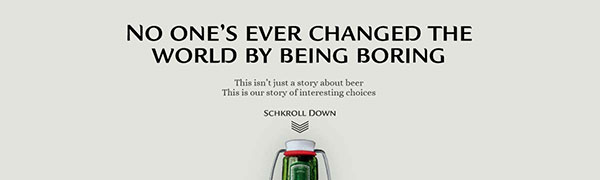
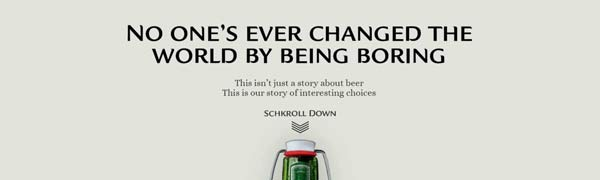
updated all small-screen header images with new versions. added license and blog links to footer. amended homepage font sizes. AGAIN.

diff --git a/css/style.css b/css/style.css
@@ -139,7 +139,7 @@ header p {
   margin-top: 12px; }
 
 .project .info p:nth-child(2) {
-  font-size: 24px;
+  font-size: 22px;
   line-height: 1em;
   font-weight: 400;
   margin-top: 5px; }
@@ -178,11 +178,6 @@ footer a:active {
 
 footer h2 {
   font-weight: 300; }
-
-#footer-inner div:nth-of-type(3) {
-  clear: left;
-  display: block;
-  width: auto; }
 
 /* Project pages */
 .description {
@@ -312,12 +307,18 @@ body > .project {
     height: auto; }
 
   .description {
-    padding: 2.5%; } }
+    padding: 2.5%; }
+
+  #footer-inner div {
+    margin-bottom: 48px; }
+
+  #footer-inner div:nth-child(3),
+  #footer-inner div:nth-child(4) {
+    margin-bottom: 9px; } }
 @media screen and (min-width: 750px) {
   #footer-inner div {
     float: left;
-    margin-left: 0.25em;
-    width: 295px; }
+    width: 33%; }
 
   /* calculate required number of copy lines * their font sizes + any leading + any padding */
   .project .info {
@@ -327,7 +328,10 @@ body > .project {
     padding: 2.5%; }
 
   h1 {
-    margin-left: 9px; } }
+    margin-left: 9px; }
+
+  #footer-inner div:nth-of-type(3) {
+    text-align: right; } }
 @media screen and (min-width: 750px) and (max-width: 1007px) {
   #container,
   #header-inner,
@@ -426,9 +430,6 @@ body > .project {
   footer p {
     margin-top: 8px;
     font-weight: 400; }
-
-  #footer-inner div:nth-of-type(2) {
-    margin-left: 54px; }
 
   .description {
     width: 504px;

diff --git a/assets/style.scss b/assets/style.scss
@@ -188,7 +188,7 @@ header p {
 }
 
 .project .info p:nth-child(2) {
-  font-size: 24px;
+  font-size: 22px;
   line-height: 1em;
   font-weight: 400;
   margin-top: 5px;
@@ -234,12 +234,6 @@ footer a:active {
 
 footer h2 {
   font-weight: 300;
-}
-
-#footer-inner div:nth-of-type(3) {
-  clear: left;
-  display: block;
-  width: auto;
 }
 
 /* Project pages */
@@ -407,13 +401,21 @@ body > .project {
   .description {
     padding: 2.5%
   }
+
+  #footer-inner div {
+    margin-bottom: 48px;
+  }
+
+  #footer-inner div:nth-child(3),
+  #footer-inner div:nth-child(4) {
+    margin-bottom: 9px;
+  }
 }
 
 @media screen and (min-width: 750px) {
   #footer-inner div {
     float: left;
-    margin-left: 0.25em;
-    width: 295px;
+    width: 33%;
   }
 
   /* calculate required number of copy lines * their font sizes + any leading + any padding */
@@ -427,6 +429,10 @@ body > .project {
 
   h1 {
     margin-left: $standardSpacing;
+  }
+
+  #footer-inner div:nth-of-type(3) {
+    text-align: right;
   }
 }
 
@@ -556,10 +562,6 @@ body > .project {
   footer p {
     margin-top: 8px;
     font-weight: 400;
-  }
-
-  #footer-inner div:nth-of-type(2) {
-    margin-left: 54px;
   }
 
   .description {

diff --git a/ps-postcards/index.html b/ps-postcards/index.html
@@ -2,7 +2,7 @@
 layout: project_template_two
 title: "PS Postcards"
 index: 12
-client: Beautiful postcards sent from your mobile
+client: Ocean Labs
 description: |
   Holiday? Newborn baby? Wedding day? Every special moment has a special place in our memories. What if that moment was photographed and shared with our loved ones as a physical keep safe postcard? PS is a mobile app that allows you to create a personalised postcard, send it to anyone and anywhere in the world. A custom navigation, rich interactions and mobile in-app purchase allows your special moment to be enjoyed as special mail.     
 link: http://www.psilov.eu

diff --git a/_includes/footer.html b/_includes/footer.html
@@ -7,6 +7,16 @@
         <p><a href="http://twitter.com/miscondukt">@miscondukt</a></p>
       </div>
 
+      <div>
+        <h2>/blog</h2>
+        <p><a href="http://miscondukt.tumblr.com/">The privilege of being a woman</a></p>
+      </div>
+
+      <div>
+        <h2>/license</h2>
+        <p><a href="/about">about</a></p>
+      </div>
+
       <div style="clear:both;float: none;"></div>
     </div>
   </footer>
